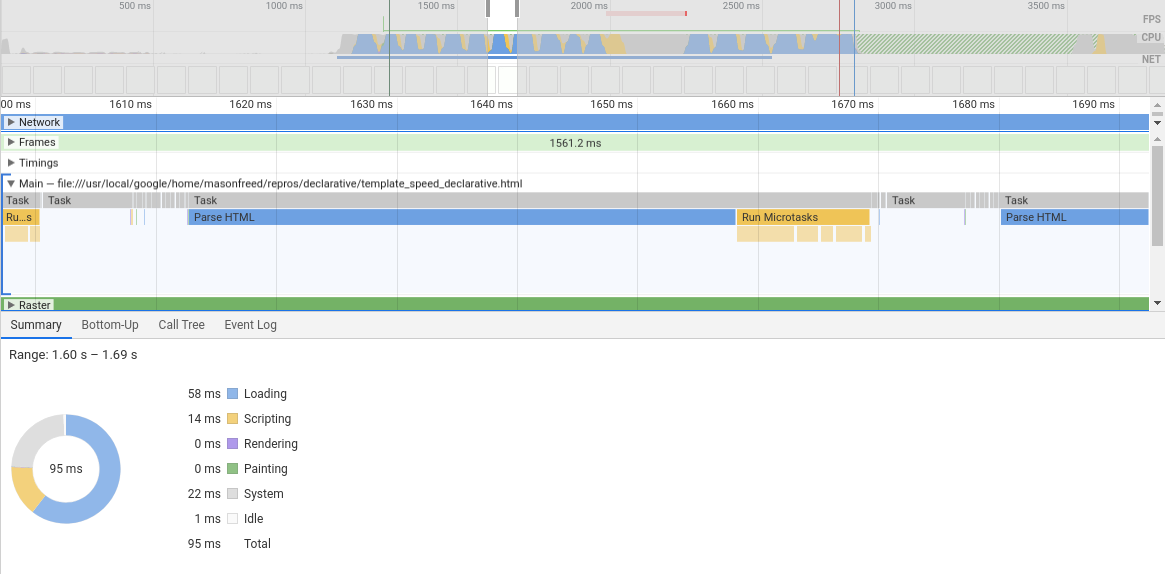
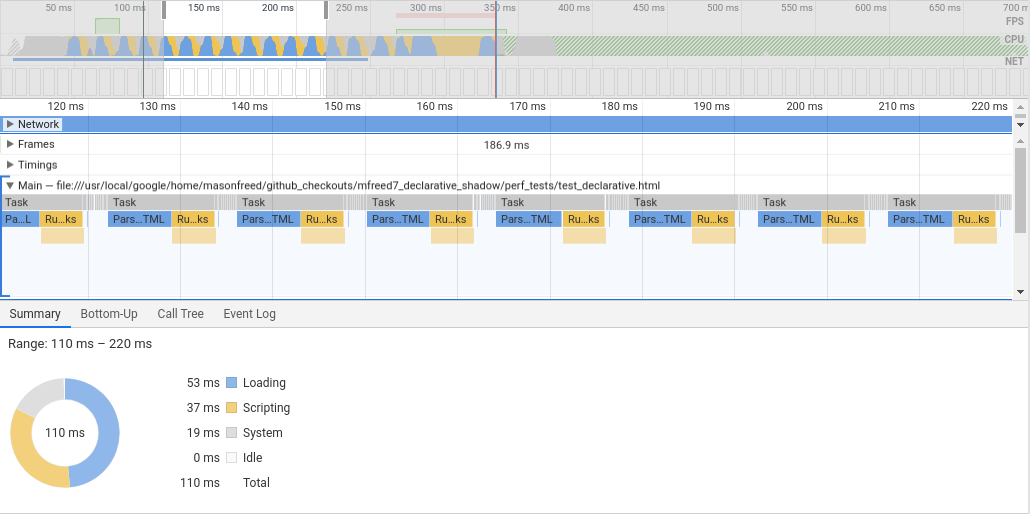
Updated performance section

diff --git a/README.md b/README.md
@@ -159,7 +159,7 @@ host.innerHTML = '<template shadowroot=open></template>'
 
  In this case, should `<div id=host>` get a `#shadowroot` attached?
 
- My current thinking is to **not** attach a shadow root to `<div id=host>` in this case. That seems more difficult and error prone. 
+ My current thinking is to **not** attach a shadow root to `<div id=host>` in this case. That seems more difficult and error prone.
 
 
 3. How should `adoptedStylesheets` on `#shadowroot` nodes be handled? On the parser side, should there be a way to "point to" a stylesheet that gets automatically adopted within the declarative `#shadowroot`? On the serialization side, should the existing contents of `adoptedStylesheets` be automatically serialized into new `<style>` nodes? This could potentially be controlled by a new `convertAdoptedStylesheetsToInlineStyles` argument to `getInnerHTML()`.
@@ -233,7 +233,7 @@ The current proposal removes the `<template shadowroot>` node after performing t
 
 
 
-1. The ergonomics would be a bit worse, as there would be a leftover copy of the template that would be encountered upon traversing the tree. This would lead to confusion among both developers (who would see both DocumentFragments in the devtools Elements pane) and scripts (which would now iterate over both sets of trees). Additionally, the leftover `<template>` node would always get slotted into the unnamed `<slot>`. 
+1. The ergonomics would be a bit worse, as there would be a leftover copy of the template that would be encountered upon traversing the tree. This would lead to confusion among both developers (who would see both DocumentFragments in the devtools Elements pane) and scripts (which would now iterate over both sets of trees). Additionally, the leftover `<template>` node would always get slotted into the unnamed `<slot>`.
 2. The memory consumption and overhead would be increased, due to the extra `<template shadowroot>` node left in the tree. Additionally, the slotting algorithm would also need to do extra work to slot in the leftover `<template shadowroot>` element into unnamed slots within the shadow root.
 
 The advantage of this approach would be that it avoids the abnormal behavior of a "self-removing" element. There are no current examples in the web platform of elements that remove themselves when parsed. (There is one historical example, `<isindex>`, but that has since been removed.) This advantage seems to be mostly about theoretical purity at this point. So unless there turns out to be negative web developer impact from introducing this new behavior, the above downsides would seem to outweigh this advantage. Also, arguably (see [this section](#what-does-declarative-mean)), the `<template shadowroot>` under this proposal is not “removed”, but rather transformed into its equivalent `#shadowroot` in the final DOM tree.
@@ -286,12 +286,30 @@ This approach might be perceived to be less confusing, since it avoids an HTML t
 
 # Performance
 
-As a very simple test, I naively implemented the proposed declarative shadow attachment algorithm, exactly as [written above](#behavior) with all operations occurring at the closing `</template>` tag. I tested this locally on the same Chromium build on a fairly high-powered Lenovo P920 workstation, giving it two different inputs, both loaded from local file:// URLs. Each input consisted of 10,000 copies of the same code snippet, one of which was a baseline and one which used declarative Shadow DOM - see below for descriptions of each type of snippet. Care was taken to eliminate forced style/layout, by wrapping the set of copies inside a `<div>` with `display:none` and `contain:strict`.
+As a very simple test, I naively implemented the proposed declarative shadow attachment algorithm, mostly as [written above](#behavior) with all operations occurring at the closing `</template>` tag. This has been built into Chrome as of version 82.0.4060.0, and must be tested with the `--enable-blink-features=DeclarativeShadowDOM` flag provided on the command line. I tested this locally on Chrome v82.0.4068.4 on Linux, on a fairly high-powered Lenovo P920 workstation. I used [tachometer](https://www.npmjs.com/package/tachometer) for all testing. I provided three different inputs, all loaded from local files. Each input consisted of 10,000 copies of the same code snippet, one of which used declarative Shadow DOM, and the other two as baselines. See below for descriptions of each type of snippet. Care was taken to eliminate forced style/layout, by wrapping the set of copies inside a `<div>` with `display:none` and `contain:strict`.
 
 
-## Baseline - script-based shadow root attachment
 
-The first snippet replicates a proposed alternative to native declarative Shadow DOM, which uses an inline script placed just after each `<template>` to attach the shadow root and clone contents into the root. For completeness, this snippet also removes the `<template>` element and the inline `<script>` node, so that the resulting tree is identical to the declarative output. I found that the results did not change appreciably if both the `<template>` and `<script>` were left in the document instead.
+## Template-based declarative Shadow DOM
+
+The declarative Shadow DOM snippet uses the `<template shadowroot>` element as described in this document:
+
+
+```html
+<div>
+    <template shadowroot=open>
+        <slot></slot>
+    </template>
+    <span>${copy_num}</span>
+</div>
+```
+
+
+## Baseline #1 - inline script-based shadow root attachment
+
+The first baseilne snippet replicates a proposed alternative to native declarative Shadow DOM, which uses an inline script placed just after each `<template>` to attach the shadow root and move the template contents into the root. For completeness, this snippet also removes the `<template>` element and the inline `<script>` node, so that the resulting tree is identical to the declarative output. I found that the results did not change appreciably if both the `<template>` and `<script>` were left in the document instead.
+
+This approach is the most straightforward replica of a declarative shadow dom solution - the shadow root is attached and populated immediately after it is parsed, so that content streaming is possible.
 
 
 ```html
@@ -300,58 +318,81 @@ The first snippet replicates a proposed alternative to native declarative Shadow
         <slot></slot>
     </template>
     <script>
-      var template = document.currentScript.previousElementSibling;
-      var shadowRoot = template.parentElement.attachShadow({mode: "open"});
-      shadowRoot.appendChild(template.content);
-      // These two lines didn't affect performance appreciably:
-      template.remove();
-      document.currentScript.remove();
+        var template = document.currentScript.previousElementSibling;
+        var shadowRoot = template.parentElement.attachShadow({mode: "open"});
+        shadowRoot.appendChild(template.content);
+        // These two lines didn't affect performance appreciably:
+        template.remove();
+        document.currentScript.remove();
     </script>
-    <span></span>
+    <span>${copy_num}</span>
 </div>
 ```
 
 
+## Baseline #2 - single script-based shadow root attachment
 
-## Template-based declarative Shadow DOM
+The second baseline snippet uses a single script at the end of the HTML that loops over all templates to attach the shadow roots and move the template contents into each root. This snippet also removes the `<template>` elements and the final `<script>` node.
 
-The other code snippet uses the new declarative shadow root syntax described in this document:
+This approach is optimized for speed - the entire page is parsed first, and then one script does all of the shadow root attachment and population. The advantage here is that the parser is not blocked for script on each shadow root. The major disadvantage is that streaming is no longer possible. The entire page will consist of inert `<template>` elements that do not render, until the final script loops through and "converts" them into shadow roots. This will likely delay first paint.
 
 
 ```html
+<!-- Repeated chunk: -->
 <div>
-    <template shadowroot=open>
+    <template class=shadowroot>
         <slot></slot>
     </template>
-    <span></span>
+    <span>${copy_num}</span>
 </div>
-```
 
+...
+<!-- Single script at the end: -->
+<script>
+    const shadowroots = document.querySelectorAll('.shadowroot');
+    for (var i=0; i<shadowroots.length; ++i) {
+        const shadowRoot = shadowroots[i].parentElement.attachShadow({mode: "open"});
+        shadowRoot.appendChild(shadowroots[i].content);
+        shadowroots[i].remove();
+    }
+    document.currentScript.remove();
+</script>
+```
 
 
 ## Results
 
 The (very preliminary) results were:
 
-|    | Elapsed (10k copies) |
-|----|-------------------------------|
-| Script-based polyfill | ~9 seconds |
-| Declarative Shadow DOM | ~1.4 seconds |
-| &nbsp;&nbsp;&nbsp;&nbsp;&nbsp;&nbsp;**Speedup:** | **~6X** |
+|     Version | <none>      |
+|-------------|-------------|
+|     Browser | chrome<br>82.0.4068.4      |
+| Sample size | 50          |
 
 
-It is very important to emphasize that this is just a preliminary look into performance. Clearly the code snippets used are not optimized, and particularly in the case of the inline `<script>` snippets, shadow attachment could be combined into a single step for many/all shadow roots. However, it is interesting to look into a trace of the results (both on a similar time scale), to see where the extra time is being spent/saved for these naive examples:
-
-**<span style="text-decoration:underline;">Script-based snippet trace</span>**
-
-![Script perf trace](images/script_trace.png "Script-based snippet trace")
-
-**<span style="text-decoration:underline;">Declarative Shadow DOM based snippet trace</span>**
-
-![alt_text](images/declarative_trace.png "Declarative Shadow DOM based snippet trace")
+| Benchmark          | Bytes       |              Avg time |      vs Declarative |    vs Inline Script | vs Single Loop Script |
+|:-------------------|------------:|----------------------:|--------------------:|--------------------:|----------------------:|
+| Declarative        | 1034.63 KiB |   248.72ms - 254.60ms |    |          **faster**<br>79% - 79%<br>936.93ms - 951.87ms | **faster**<br>10% - 13%<br>29.32ms - 38.18ms |
+| Inline Script      | 3720.18 KiB | 1189.19ms - 1202.93ms | **slower**<br>369% - 381%<br>936.93ms - 951.87ms |    | **slower**<br>314% - 324%<br>903.03ms - 918.28ms |
+| Single Loop Script | 1044.74 KiB |   282.10ms - 288.72ms | **slower**<br>12% - 15%<br>29.32ms - 38.18ms | **faster**<br>76% - 76%<br>903.03ms - 918.28ms |   |
 
 
-In the script-based snippet, not only does the inline script cause a significant amount of time to be spent in the JS engine, but additionally, each inline script causes the parser to yield to run microtasks. Both of those significantly slow down rendering for the script-based example. In contrast, the declarative snippet can continuously run parsing, including attaching shadow roots, until the parser yields for other reasons. It also skips any JS execution overhead.
+So the declarative snippet is **\~10% faster** than the single loop script, and almost **5 times faster** than the one-script-per-shadow-root approach. It is very important to emphasize that this is just a preliminary look into performance. Clearly the code snippets used are not optimized, and particularly in the case of the inline `<script>` snippets, these are two extremes between one script per shadow root and one script per page. However, it is interesting to look into a trace of the results (on similar time scales), to see where the extra time is being spent/saved for these naive examples:
+
+**<span style="text-decoration:underline;">Declarative Shadow DOM trace</span>**
+
+<table border=2><tr><td><img src="images/declarative_trace.png" /></td></tr></table>
+
+**<span style="text-decoration:underline;">Inline Scripts trace</span>**
+
+<table border=2><tr><td><img src="images/script_trace.png" /></td></tr></table>
+
+**<span style="text-decoration:underline;">Single Loop Script trace</span>**
+
+<table border=2><tr><td><img src="images/script_2_trace.png" /></td></tr></table>
+
+
+In the script-based snippet, not only does the inline script cause a significant amount of time to be spent in the JS engine, but additionally, each inline script causes the parser to yield to run microtasks. Both of those significantly slow down rendering for the inline script example. The single loop script defers **all** script execution time until the end, so the parsing/loading is faster, but then more than half of the total time is spent at the end within the script loop. The declarative snippet continuously runs parsing, including attaching shadow roots, until the parser yields for other reasons. At that point, it spends almost half of its time firing slotchange events at microtask timing.
 
 
 # Feature Detection and Polyfilling
